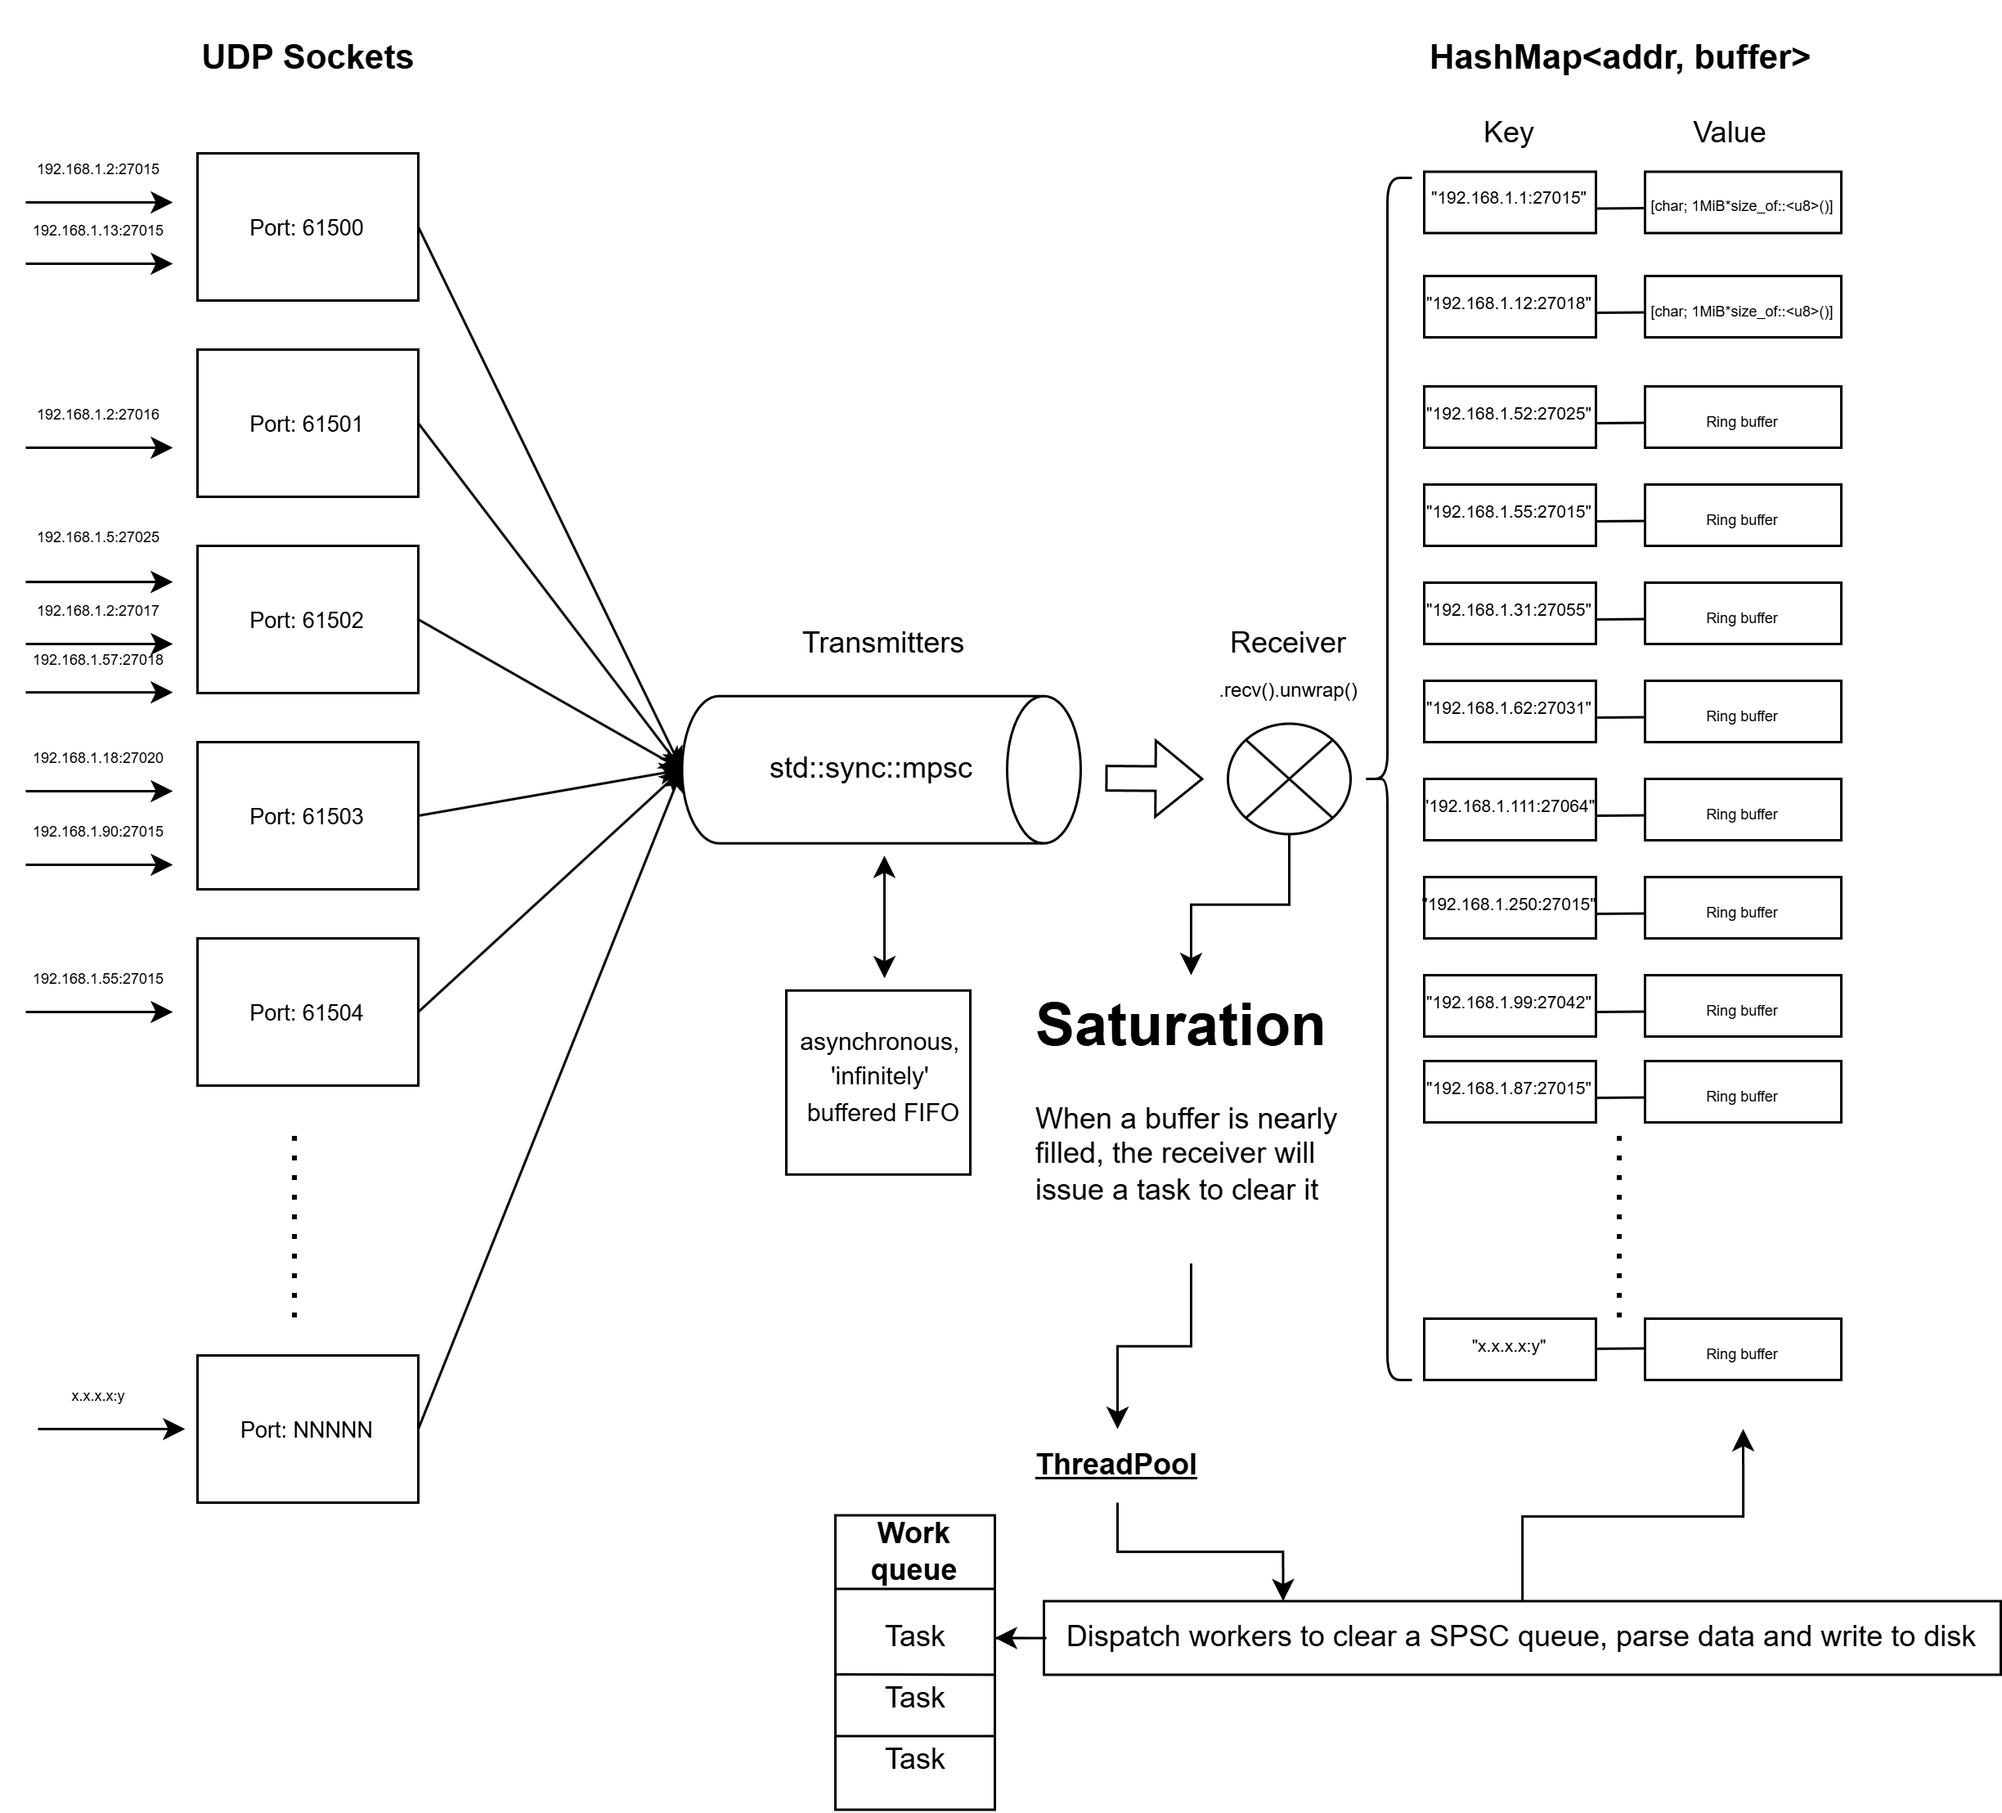
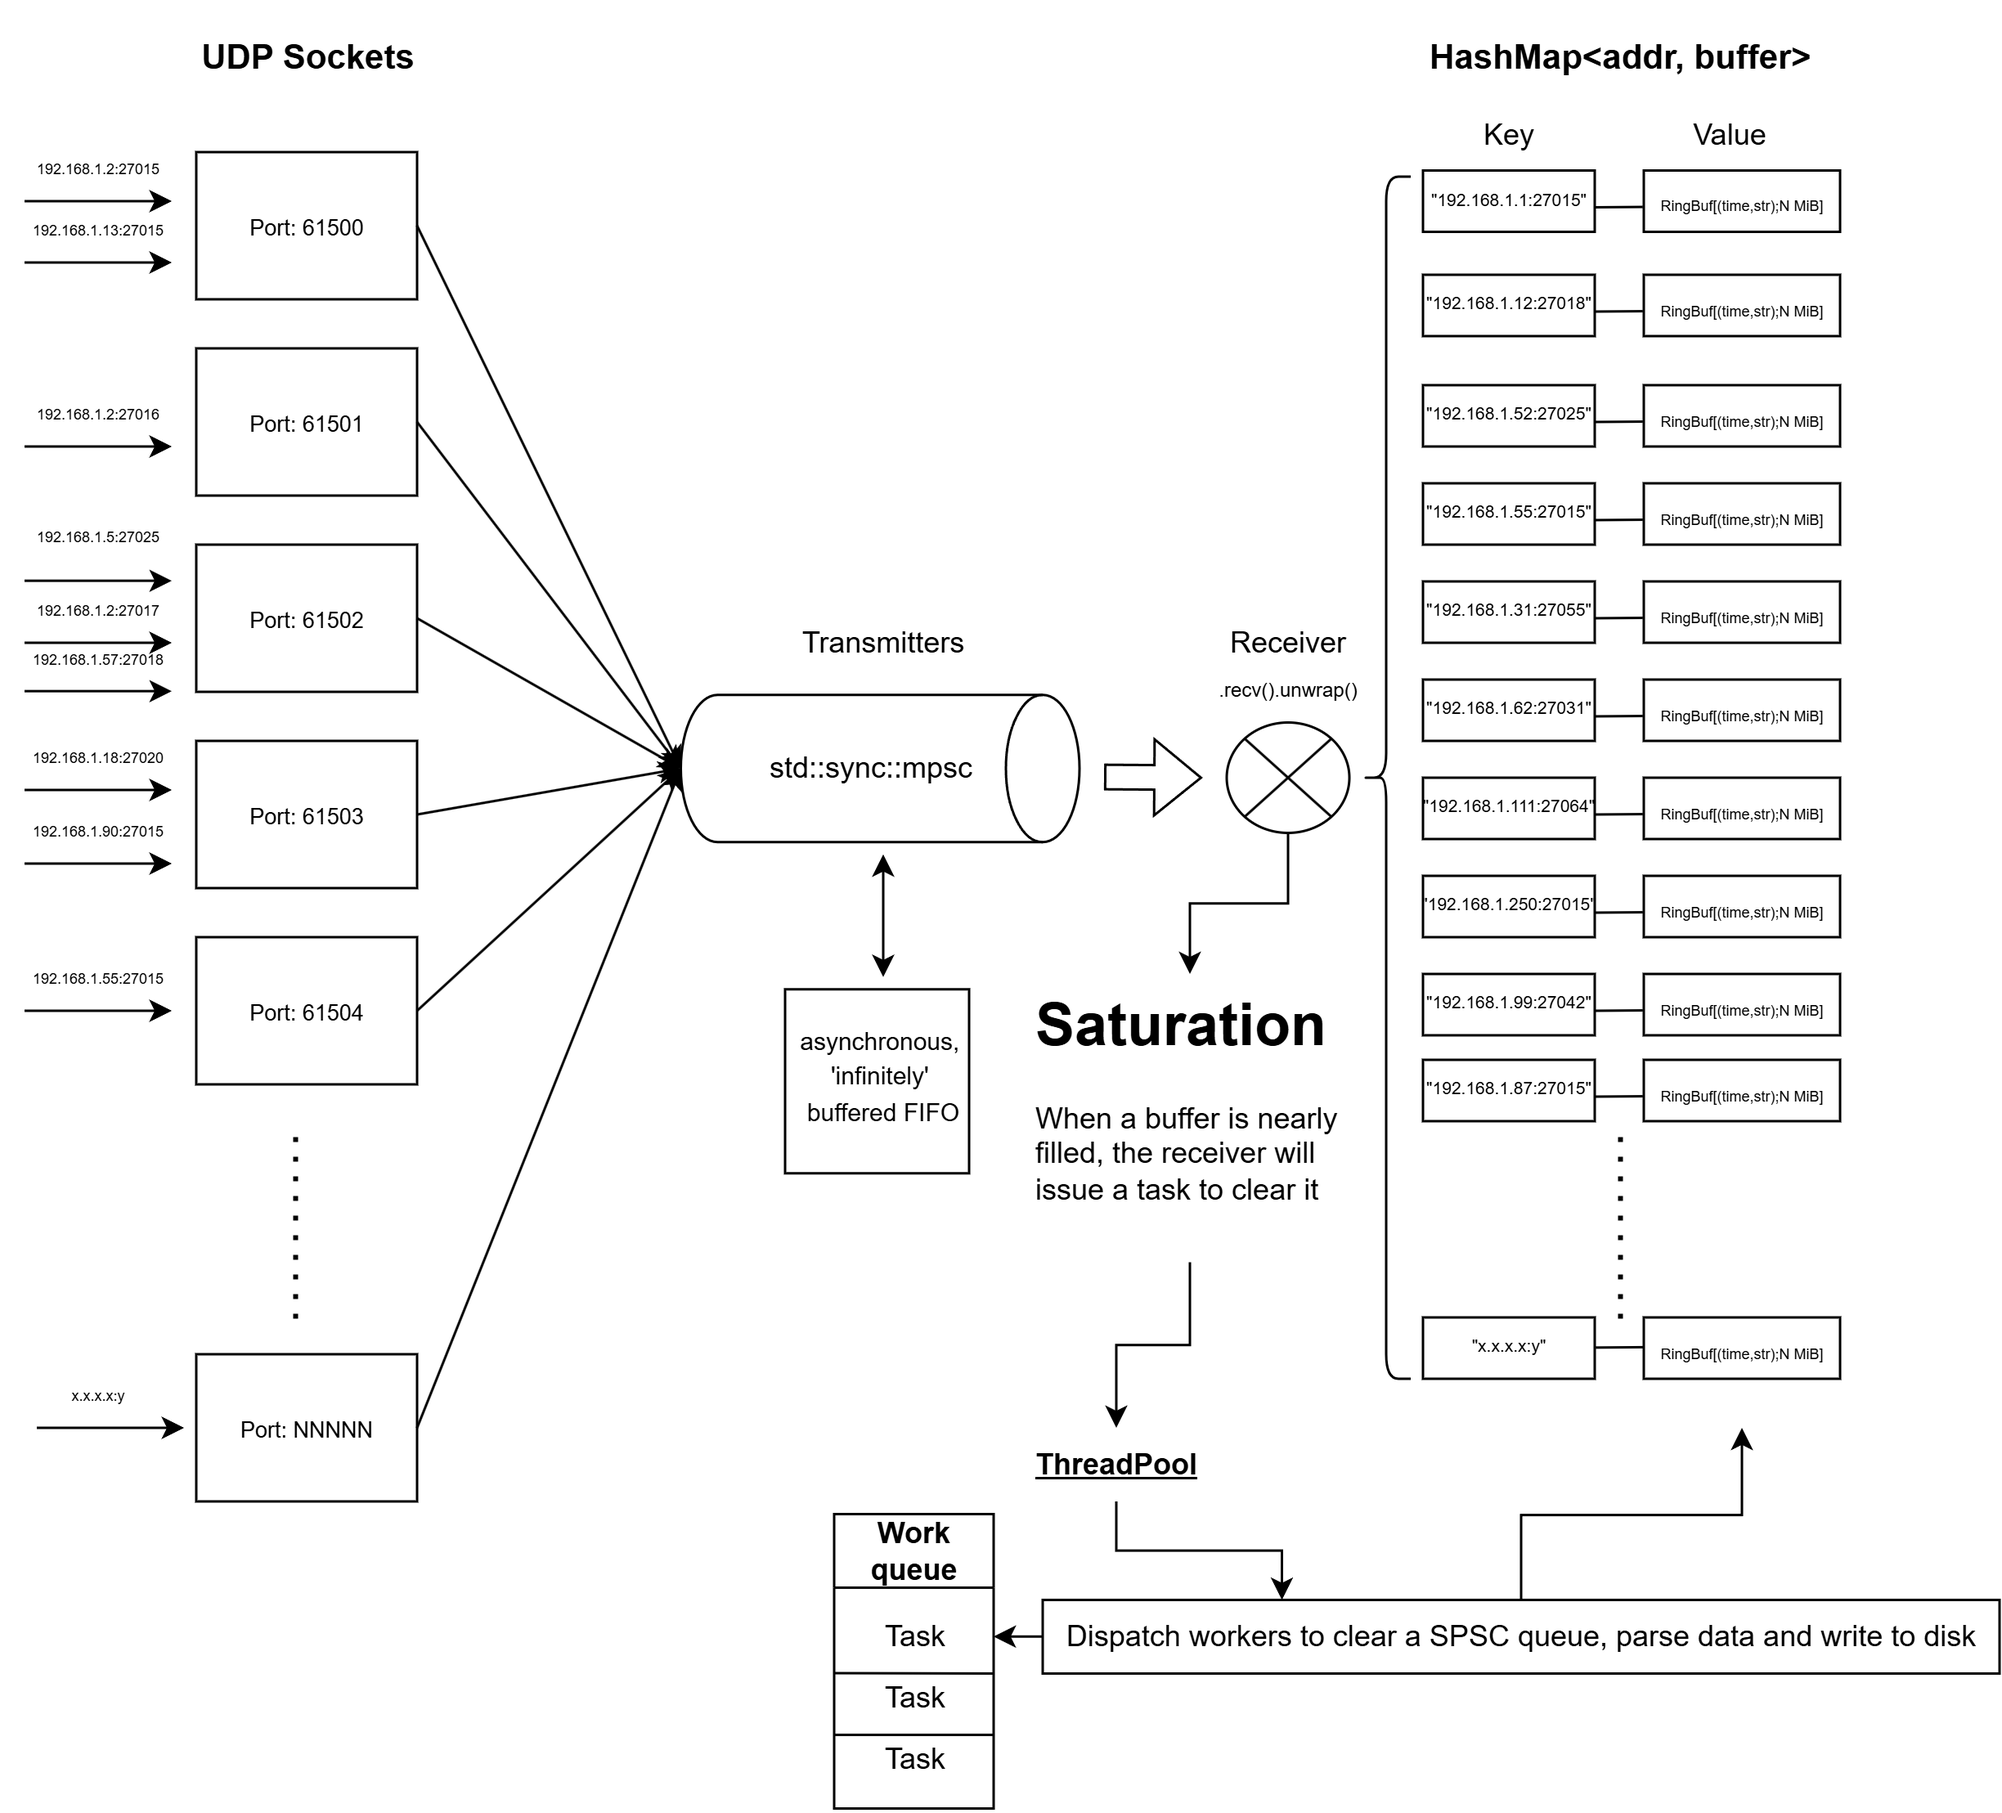
Finalized code flow for the UDP part

diff --git a/README.md b/README.md
@@ -1,6 +1,6 @@
 # UDP Log Parser
 
-Listen for UDP packets on multiple sockets, sort them by address and push the log string to a bounded single-producer-single-consumer queue, a.k.a a ring buffer. When the buffer starts nearing a full capacity, the receiver issues a task to the thread pool. In case of congestion in the pool, the buffer will start overwriting existing data(?). A worker thread will be dispatched to lock and start parsing log strings from the ring buffer. Important analytical results are stored in a SQL database while the original log strings are stored in a more efficient format and finally written to a binary log file on the disk.  
+Listen for UDP packets on multiple sockets. Receiver sorts them into a hashmap by address and pushes the (__time, log string__) tuple to a bounded single-producer-single-consumer queue, a.k.a a ring buffer. When the buffer starts nearing a full capacity, the receiver issues a task to the thread pool. In case of congestion in the pool, the buffer will start overwriting existing data(?). A worker thread will be dispatched to lock and start parsing tuples from the ring buffer. Important analytical results are stored in a SQL database while the original log data is stored in a more efficient format and finally written to a binary log file on the disk.  
 
 ## Diagram of the threaded UDP listener
 
